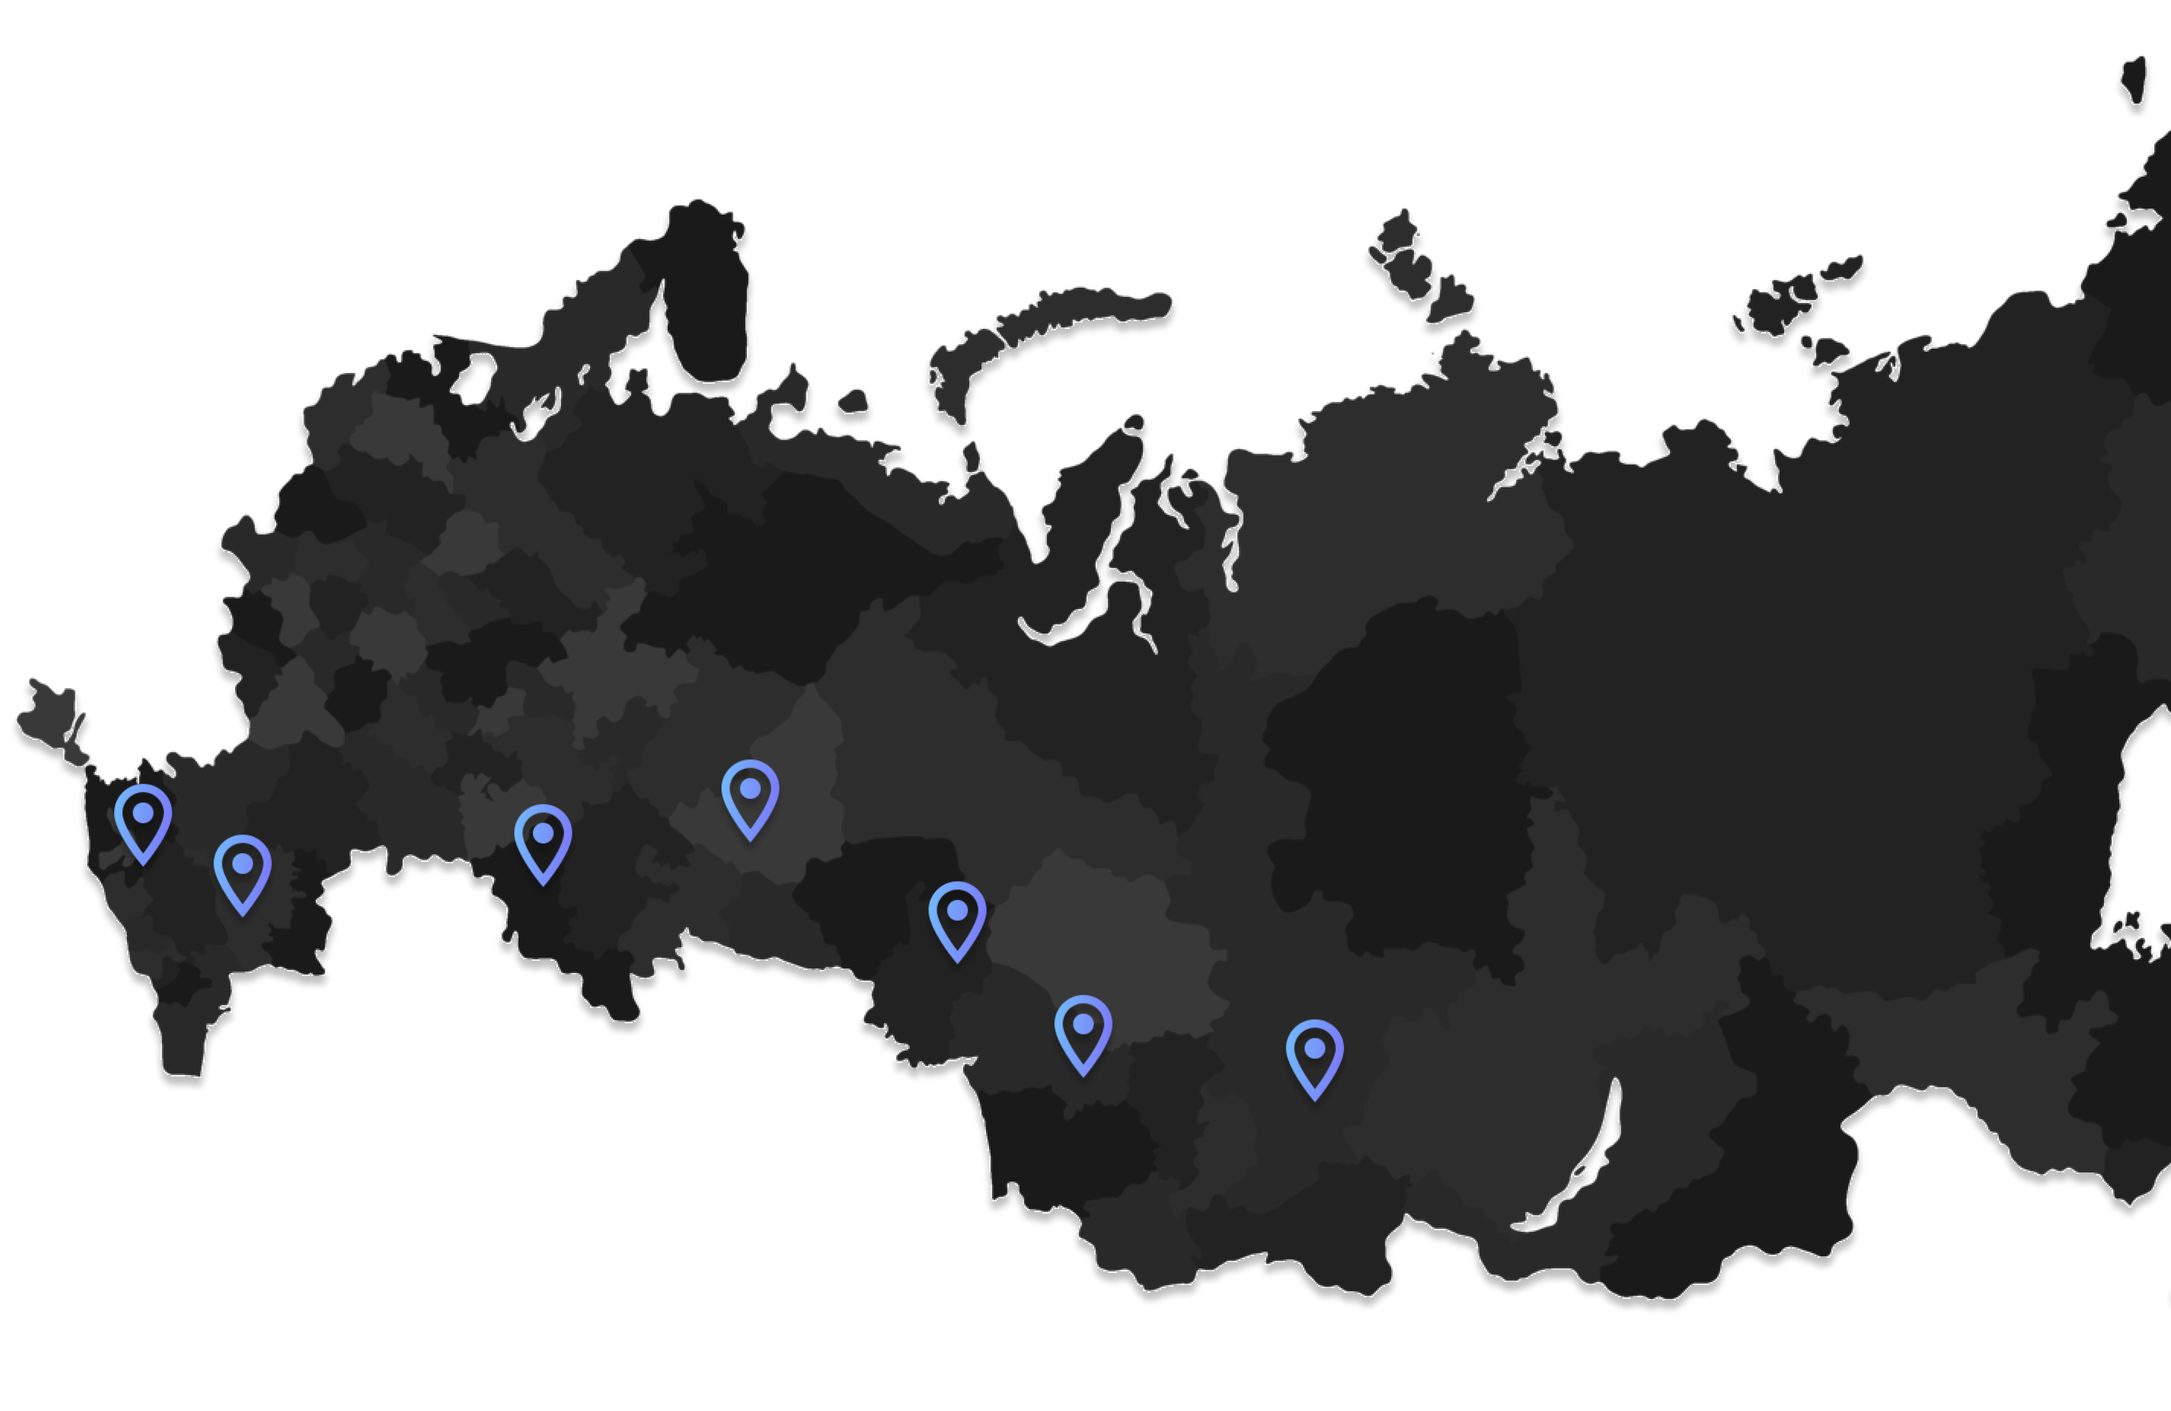
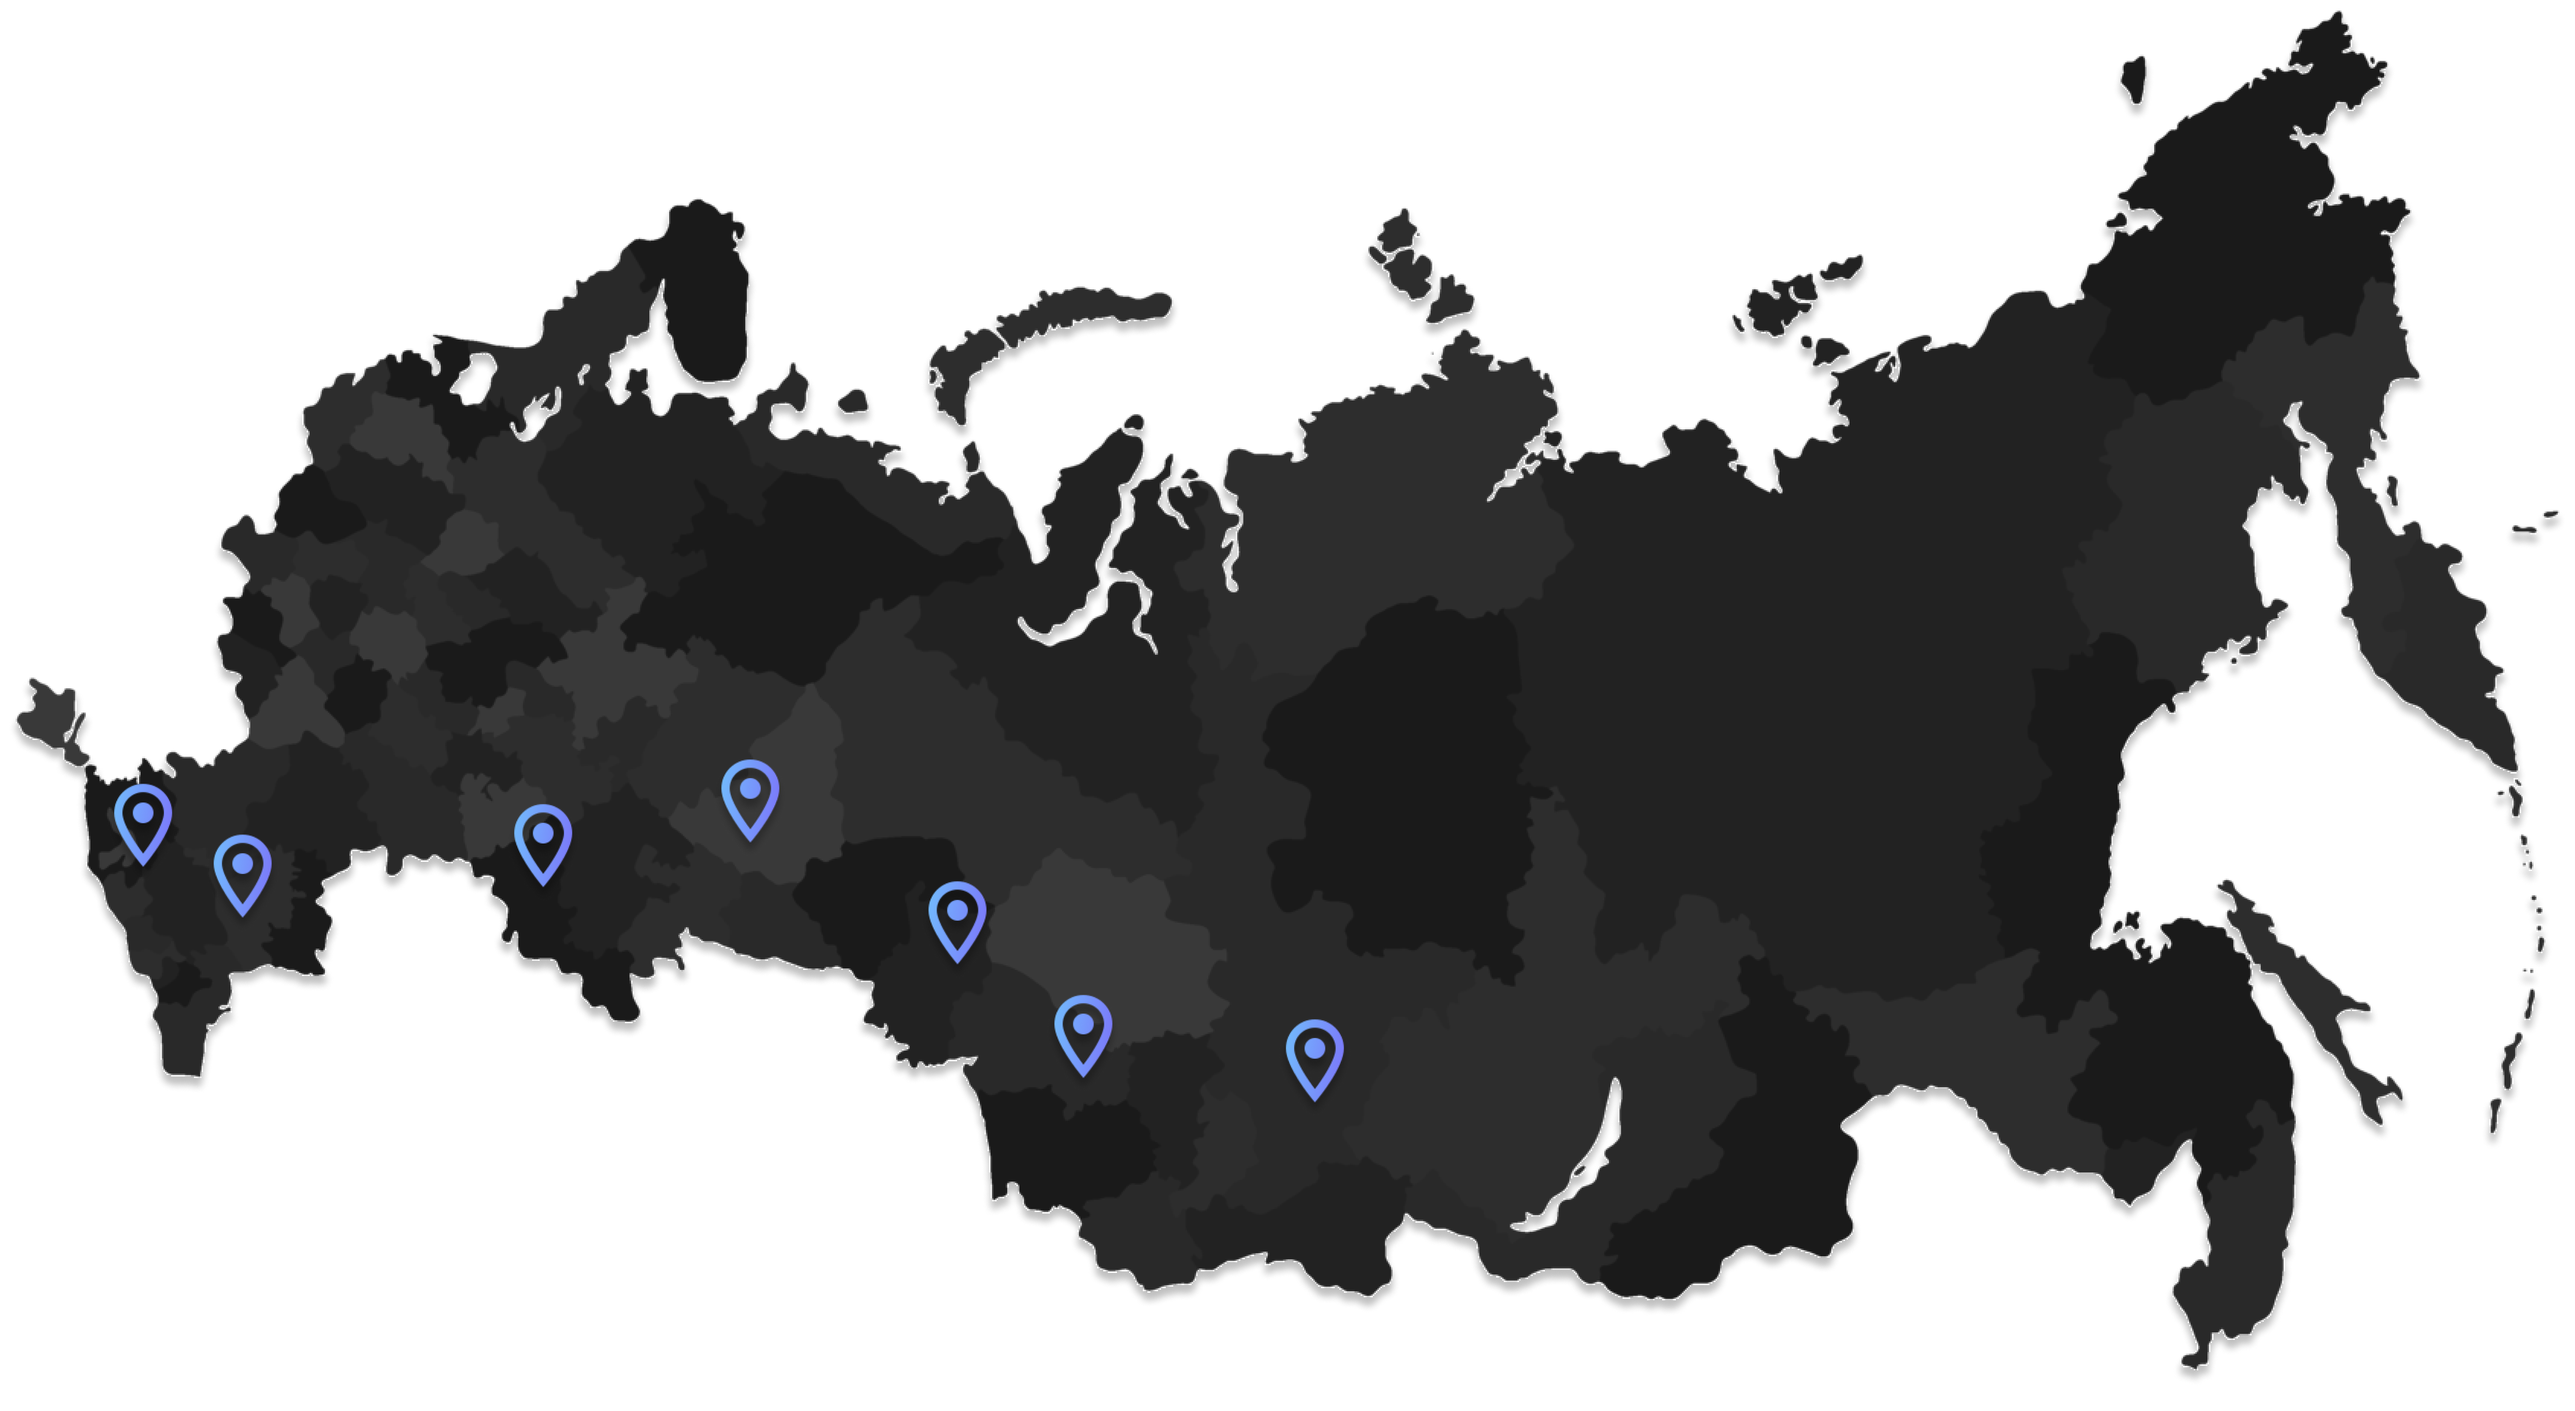
add region section

diff --git a/index.html b/index.html
@@ -265,6 +265,28 @@
 			</div>
 		</div>
 	</section>
+	<section class="region">
+		<div class="container">
+			<div class="divider">
+				<div class="divider_line"></div>
+				<div class="divider_content">
+					<div class="divider_content_number">05</div>
+					<div class="divider_content_circle"></div>
+				</div>
+			</div>
+			<div class="shapes_wrapper">
+				<img class="shapes shapes_opal shapes_opal_about"src="img/shapes/opal.svg" alt="opal"></a>
+				<img class="shapes region_map"src="img/bg/region_bg.png" alt="map"></a>
+			</div>
+			<div class="region_content">
+				<div class="title shapes_title">реализуем проекты </span> <span class="title title_gradient">во всех регионах</span> <span class="title title_stroke">России</span></div>
+				<div class="region_count">
+					<div class="title title_40">14</div>
+					<div class="region_count_text">регионов, где реализовали проекты</div>
+				</div>
+			</div>
+		</div>
+	</section>
 	<script src="js/script.js"></script>
 </body>
 </html>

diff --git a/sass/blocks/_region.scss b/sass/blocks/_region.scss
@@ -1,0 +1,34 @@
+.region {
+	margin-top: 161px;
+	min-height: 781px;
+	&_map {
+		position: absolute;
+		z-index: 0;
+		right: -357px;
+		width: 1260px;
+		height: 687px;
+	}
+	&_content {
+		position: relative;
+		z-index: 1;
+		margin-top: 141px;
+		width: 616px;
+	}
+	&_count {
+		margin-top: 37px;
+		width: 348px;
+		height: 83px;
+		display: flex;
+		justify-content: center;
+		align-items: center;
+		gap: 13px;
+		border: 2px solid rgba(#fff, 0.2);
+		border-radius: 60px;
+		&_text {
+			width: 250px;
+			font-weight: 400;
+			font-size: 18px;
+			color: #a1a1aa;
+		}
+	}
+}

diff --git a/sass/style.scss b/sass/style.scss
@@ -52,3 +52,4 @@ body {
 @import 'blocks/spheres';
 @import 'blocks/decisions';
 @import 'blocks/about';
+@import 'blocks/region';

diff --git a/sass/blocks/_title.scss b/sass/blocks/_title.scss
@@ -12,6 +12,7 @@
 	}
 	&_40 {
 		font-size: 40px;
+		font-weight: 500;
 		text-transform: none;
 	}
 	&_120 {
